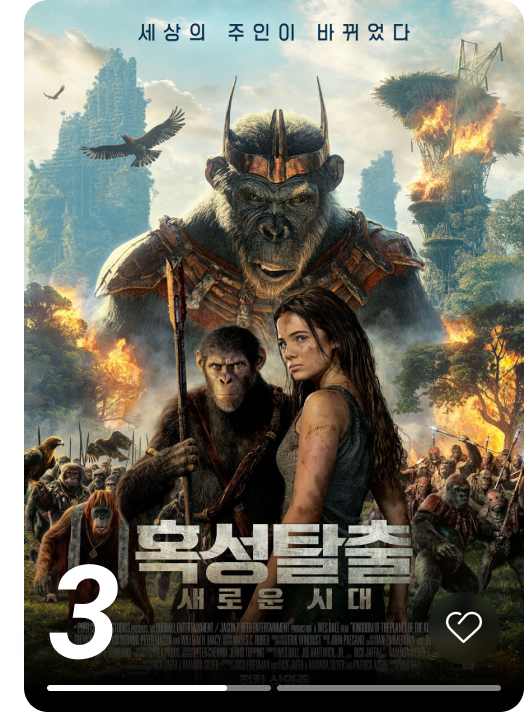
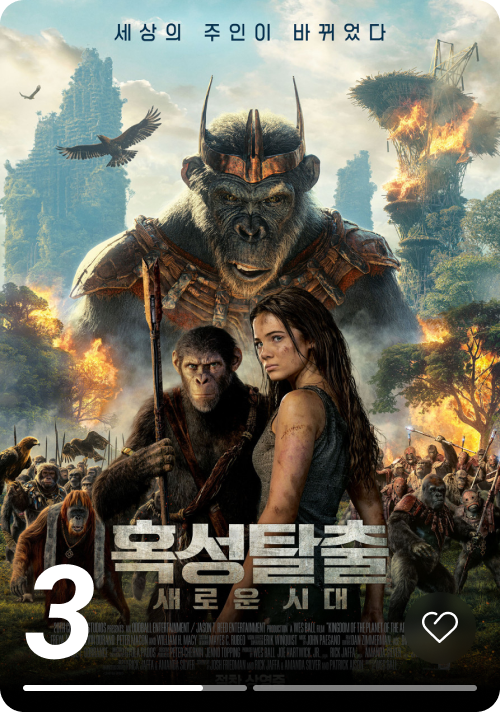
수정 진행

diff --git a/pages/page_06.html b/pages/page_06.html
@@ -39,7 +39,7 @@
                                            </ul>
                                        </div>
                                    </div>
-                                   <div style="margin-top:30px;" class="text_swiper">
+                                   <div style="margin-top:40px;" class="text_swiper">
                                        <div class="visual swiper-container" style="width:220px">
                                            <ul class="swiper-wrapper">
                                                <li class="swiper-slide"><img src="./images/A/main/txt_01.png" /></li>
@@ -64,13 +64,12 @@
                                </div>
                                <!-- //poster -->
                                <!-- list -->
-                               <div class="main_visual">
+                               <div class="main_visual" style="background-color:#f4f4f4;">
                                    <div class="visual swiper-container">
                                        <ul class="swiper-wrapper">
                                            <li class="swiper-slide"><img src="./images/A/main/List1.png" alt=""></li>
                                            <li class="swiper-slide"><img src="./images/A/main/List2.png" alt=""></li>
-                                           <li class="swiper-slide"><img src="./images/A/main/List3.png" alt=""></li>
-                                           <li class="swiper-slide"><img src="./images/A/main/List3.png" alt=""></li>
+                                           <li class="swiper-slide" style="width:370px !important;"><img src="./images/A/main/List3_01.png" alt=""></li>
                                        </ul>
                                    </div>
                                </div>
@@ -79,7 +78,7 @@
                        </div>
                    </div>
                </li>
-               <li style="padding:16px 15px 0 !important;"><img src="./images/screen/02.png"/></li>
+               <li style="padding:40px 15px 0 !important;"><img src="./images/screen/02.png"/></li>
                <li style="padding:16px 15px !important;"><img src="./images/screen/03.png"/></li>
                <li class="video video_1" style="padding:16px 15px 0;">
                    <img src="./images/screen/04.png"/>
@@ -196,13 +195,13 @@
 
 
        var option_sec01 = {
-               slidesPerView: 1.1,
+               slidesPerView: 1.05,
                spaceBetween: 5,
            };
 
 
            var option_sec02 = {
-               spaceBetween:30,
+               spaceBetween:40,
                slidesPerView: 3,
                centeredSlides: true,
                roundLengths: true,
@@ -278,8 +277,10 @@
    /* swiper */
    .main_visual {padding:0px 15px; background-color:linear-gradient(rgba(243, 243, 243, 1) 0%, rgba(244, 244, 244, 1) 100%);; position:relative; z-index:1; transition:all 0.35s;}
    /* .main_visual .swiper-container {margin-right: -14px} */
-   .main_visual .swiper-container {margin-right:-15px; margin-left:-15px; padding:0 15px;}
+   .main_visual .swiper-container {margin-right:-15px; margin-left:-15px; padding:0 15px; background:#f4f4f4;}
    .main_visual .visual .swiper-wrapper .swiper-slide {padding:0px 3px 0 !important;}
+   .main_visual .visual .swiper-wrapper .swiper-slide:nth-of-type(3) {width:370px !important;}
+   .poster {margin-top:20px;}
    .poster {background:linear-gradient(rgba(243, 243, 243, 1) 0%, rgba(244, 244, 244, 1) 100%);;}
    .poster .swiper-pagination {width:200px; margin-left:6px; bottom:135px; left:50%; display:flex; gap:2px; transform:translateX(-50%);}
    .poster .swiper-pagination .swiper-pagination-bullet {height:3px; background-color:rgba(255,255,255,0.4) !important; border-radius:100px; opacity:1; position:relative; flex:1;}
@@ -308,7 +309,6 @@
    .movie.on .text_swiper {transition:all 0.5s;}
    .movie .text_swiper {transition:all 0.5s;}
 
-
    .visual_wrap > div.inner {display:flex; transform:translateX(0); transition:all 0.25s;}
    .visual_wrap .inner > div {width:387px; background-color:#fff;}
 
@@ -317,11 +317,11 @@
    .top_visual  .swiper-slide {height: 100%;  display:flex; align-items: center; justify-content:center; transition:all 200ms linear; transform: scale(1);}
    .top_visual > img {width:50%; margin:0 auto; padding-top:30px;}
    /* .top_visual .swiper-slide img {height:308px;} */
-   .top_visual .swiper-slide.swiper-slide-active{transform: scale(1.2);}
-   .top_visual .swiper-slide.swiper-slide-active img {filter: drop-shadow(0 25px 20px rgba(0, 0, 0, 0.24))}
+   .top_visual .swiper-slide.swiper-slide-active{transform: scale(1.3);}
+   .top_visual .swiper-slide.swiper-slide-active img {filter: drop-shadow(0 20px 10px rgba(0, 0, 0, 0.24))}
 
 
-   .text_swiper {width:220px !important; margin:0 auto; }
+   .text_swiper {width:220px !important; margin:30px auto 0; }
    .text_swiper .swiper-container {width:220px !important; margin-left: 0px; margin-right: 0px; overflow:hidden;}
    .text_swiper .swiper-container img {min-width:220px !important;}
    /* //swiper */
